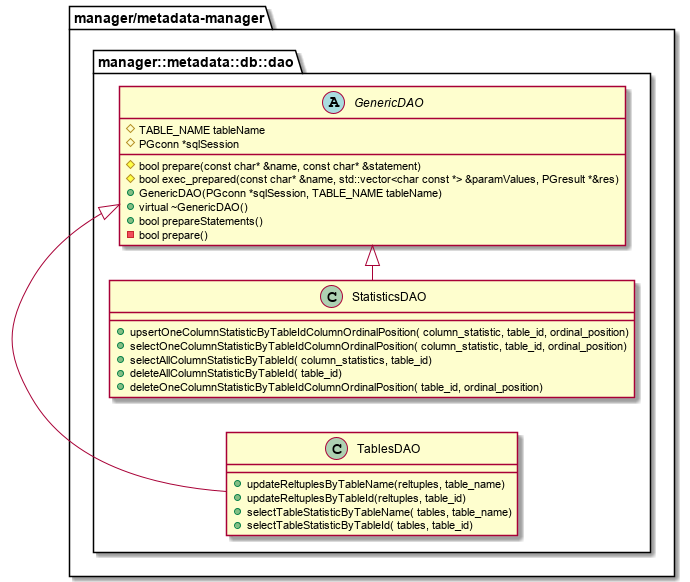
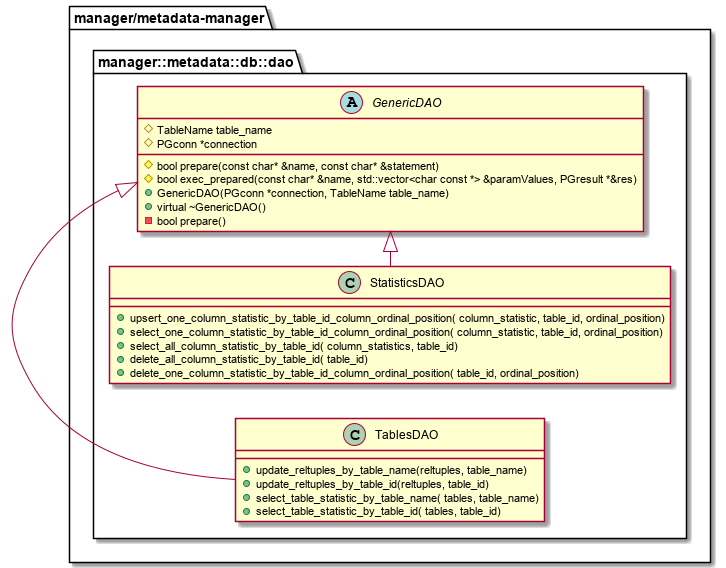
Unify lower snake_case for methods and variables and Unify upper snake_case for enums

diff --git a/metadata-manager/docs/statistic/02.FD/統計情報管理機能_API_usage.md b/metadata-manager/docs/statistic/02.FD/統計情報管理機能_API_usage.md
@@ -63,15 +63,15 @@
 | メソッド名   | 説明                                                         |
 | ----------- | ------------------------------------------------------------ |
 |init()|親クラスのメソッドをオーバーライドして実装を行う。<br />実装内容は、親クラスのメソッドの説明を参照。|
-| addOneColumnStatistic| 1カラムの列統計登録・更新（input：テーブルID・カラム番号） |
-| addTableStatistic | 1テーブルの表統計登録・更新（input：テーブルID・行数）|
-| addTableStatistic | 1テーブルの表統計登録・更新（input：テーブル名・行数、output：テーブルID）|
-| getOneColumnStatistic | 1カラムの列統計参照（input：テーブルID・カラム番号） |
-| getAllColumnStatistics | 1テーブルの全列統計参照（input：テーブルID） |
-| getTableStatistic       | 1テーブルの表統計参照（input：テーブルID）|
-| getTableStatistic       | 1テーブルの表統計参照（input：テーブル名、output：テーブルID・行数）|
-| removeOneColumnStatistic | 1カラムの列統計削除（input：テーブルID・カラム番号）|
-| removeAllColumnStatistics | 1テーブルの全列統計削除（input：テーブルID）|
+| add_one_column_statistic| 1カラムの列統計登録・更新（input：テーブルID・カラム番号） |
+| add_table_statistic | 1テーブルの表統計登録・更新（input：テーブルID・行数）|
+| add_table_statistic | 1テーブルの表統計登録・更新（input：テーブル名・行数、output：テーブルID）|
+| get_one_column_statistic | 1カラムの列統計参照（input：テーブルID・カラム番号） |
+| get_all_column_statistics | 1テーブルの全列統計参照（input：テーブルID） |
+| get_table_statistic       | 1テーブルの表統計参照（input：テーブルID）|
+| get_table_statistic       | 1テーブルの表統計参照（input：テーブル名、output：テーブルID・行数）|
+| remove_one_column_statistic | 1カラムの列統計削除（input：テーブルID・カラム番号）|
+| remove_all_column_statistics | 1テーブルの全列統計削除（input：テーブルID）|
 
 ### ColumnStatistic
 
@@ -120,7 +120,7 @@
   // 3. metadata-managerは、メタデータ格納先にプリペアードステートメントを送り、SQL文の前処理を実行する。
   // 上記3つの処理を実施し、すべての処理が成功した場合、metadata-managerは、メタデータ格納先とメタデータの受け渡しが可能となる。
   // それ以外の場合、metadata-managerは、メタデータ格納先とメタデータの受け渡しができない。
-  if (ErrorCode::OK != stats->initialize())
+  if (ErrorCode::OK != stats->init())
   {
     // error handling
   }
@@ -140,7 +140,7 @@
     one_column_statistic.put("stanullfrac", 0.9981203);
 
     //metadata-managerは、メタデータ格納先に対して、テーブルID・カラム番号に紐づく1カラム単位の列統計を登録・更新する。
-    if (ErrorCode::OK != stats->addOneColumnStatistic(table_id, column_ordinal_position,  one_column_statistic))
+    if (ErrorCode::OK != stats->add_one_column_statistic(table_id, column_ordinal_position,  one_column_statistic))
     {
     	// error handling
     }
@@ -156,7 +156,7 @@
     auto stats = std::make_unique<Statistics>(TEST_DB);
     
     //metadata-managerは、メタデータ格納先に対して、テーブルIDに紐づく表統計を登録・更新する。
-    if (ErrorCode::OK != stats->addTableStatistic(table_id, reltuples))
+    if (ErrorCode::OK != stats->add_table_statistic(table_id, reltuples))
     {
     	// error handling
     }
@@ -170,7 +170,7 @@
     auto stats = std::make_unique<Statistics>(TEST_DB);
     
     //metadata-managerは、メタデータ格納先に対して、テーブル名に紐づく表統計を登録・更新する。
-    if (ErrorCode::OK != stats->addTableStatistic(table_name, reltuples, table_id))
+    if (ErrorCode::OK != stats->add_table_statistic(table_name, reltuples, table_id))
     {
     	// error handling
     }
@@ -189,10 +189,10 @@
     auto stats = std::make_unique<Statistics>(TEST_DB);
 
     //metadata-managerは、メタデータ格納先から、テーブルID・カラム番号に紐づく列統計を取得する。
-    if (ErrorCode::OK == stats->getOneColumnStatistic(table_id, column_ordinal_position, column_statistic))
+    if (ErrorCode::OK == stats->get_one_column_statistic(table_id, column_ordinal_position, column_statistic))
     {
       // あるカラムのNULL率を取得
-      cout << column_statistic.columnStatistic.get("stanullfrac") << endl;
+      cout << column_statistic.column_statistic.get("stanullfrac") << endl;
     }
     else{
       // error handling
@@ -209,7 +209,7 @@
     auto stats = std::make_unique<Statistics>(TEST_DB);
     
     //metadata-managerは、メタデータ格納先から、テーブルIDに関するすべての列統計・表統計を一括で取得する。
-    if (ErrorCode::OK == stats->getAllColumnStatistics(table_id, column_statistics))
+    if (ErrorCode::OK == stats->get_all_column_statistics(table_id, column_statistics))
     {
       // あるカラムのNULL率を取得
       ColumnStatistic one_column_statistic;
@@ -221,7 +221,7 @@
         std::cout << "not found";
       else
         one_column_statistic = got->second;
-        cout << one_column_statistic.columnStatistic.get<int64_t>("stanullfrac") << endl;
+        cout << one_column_statistic.column_statistic.get<int64_t>("stanullfrac") << endl;
     }
     else{
       // error handling
@@ -238,7 +238,7 @@
     auto stats = std::make_unique<Statistics>(TEST_DB);
   
     //metadata-managerは、メタデータ格納先から、テーブルIDに関する表統計・テーブルメタデータを取得する。
-    if (ErrorCode::OK == stats->getTableStatistic(table_id, table_statistic))
+    if (ErrorCode::OK == stats->get_table_statistic(table_id, table_statistic))
     {
       // 行数を取得
       cout << table_statistic.reltuples << endl;
@@ -256,7 +256,7 @@
     auto stats = std::make_unique<Statistics>(TEST_DB);
   
     //metadata-managerは、メタデータ格納先から、テーブル名に関する表統計・テーブルメタデータを取得する。
-    if (ErrorCode::OK == stats->getTableStatistic(table_name, table_statistic))
+    if (ErrorCode::OK == stats->get_table_statistic(table_name, table_statistic))
     {
       // 行数を取得
       cout << table_statistic.reltuples << endl;
@@ -277,7 +277,7 @@
     auto stats = std::make_unique<Statistics>(TEST_DB);
     
     //metadata-managerは、メタデータ格納先に対して、テーブルID・カラム番号に紐づく列統計を削除する。
-    if (ErrorCode::OK != stats->removeOneColumnStatistic(table_id, column_ordinal_position))
+    if (ErrorCode::OK != stats->remove_one_column_statistic(table_id, column_ordinal_position))
     {
     	// error handling
     }
@@ -291,7 +291,7 @@
     auto stats = std::make_unique<Statistics>(TEST_DB);
     
     //metadata-managerは、メタデータ格納先に対して、テーブルIDに紐づく全列統計を削除する。
-    if (ErrorCode::OK != stats->removeAllColumnStatistics(table_id))
+    if (ErrorCode::OK != stats->remove_all_column_statistics(table_id))
     {
     	// error handling
     }

diff --git a/metadata-manager/docs/statistic/02.FD/統計情報管理機能_詳細設計書.md b/metadata-manager/docs/statistic/02.FD/統計情報管理機能_詳細設計書.md
@@ -29,8 +29,8 @@
             - [説明](#説明-4)
             - [method](#method-3)
         - [DAOで利用するenum](#daoで利用するenum)
-            - [STATEMENT_NAME](#statement_name)
-            - [TABLE_NAME](#table_name)
+            - [StatementName](#statement_name)
+            - [TableName](#table_name)
     - [シーケンス図](#シーケンス図)
         - [初期化処理](#初期化処理)
         - [終了処理](#終了処理)
@@ -126,7 +126,7 @@
 * initialize
   * fieldを初期化する。
 
-* getConnectionString
+* get_connection_string
   * CONNECTION_STRINGをgetする。
 
 ### DialectStrategy
@@ -175,7 +175,7 @@ DialectStrategy::getInstance()->StatisticsDAO_upsertOneColumnStatisticByTableIdC
 
 ![](./out/uml/ClassDiagram_detail/ClassDiagram_detail_dao_enum.png)
 
-#### STATEMENT_NAME
+#### StatementName
 
 * プリペアードステートメントを一意に識別するためのステートメント文字列を格納する。
   * ステートメント文字列
@@ -192,7 +192,7 @@ DialectStrategy::getInstance()->StatisticsDAO_upsertOneColumnStatisticByTableIdC
       * stmtName
         * unique name for the new prepared statement.
 
-#### TABLE_NAME
+#### TableName
 
 * 各DAOを一意に識別する名前。
 
@@ -202,8 +202,11 @@ DialectStrategy::getInstance()->StatisticsDAO_upsertOneColumnStatisticByTableIdC
 ![](./out/uml/SequenceDiagram_detail/接続処理.png)
 
 ### 終了処理
-* サービス層のクラスのデストラクタで、メタデータ格納先とのコネクションを切断する。
-![](./out/uml/SequenceDiagram_detail/切断処理.png)
+* PGConnをstd::shared_ptr<PGconn>で定義して、std::shared_ptr<PGconn>のdeleterで、PQfinishを呼ぶ。
+
+```C++
+std::shared_ptr<PGconn> conn(pgconn, [](PGconn *c) { ::PQfinish(c); });
+```
 
 ### UPSERT_UPDATE_DELETE_API_共通シーケンス_開始・終了処理
 

diff --git a/metadata-manager/docs/statistic/02.FD/統計情報管理機能_機能設計書.md b/metadata-manager/docs/statistic/02.FD/統計情報管理機能_機能設計書.md
@@ -751,8 +751,8 @@
 | プロパティ名<br />（論理名） | プロパティ名<br />（物理名） | 型               | 型の備考 | IN/OUT | 省略指定 | 値の範囲 |
 | ---------------------------- | ---------------------------- | ---------------- | -------- | ------ | -------- | -------- |
 | テーブル名                   | table_name                   | std::string_view |          | IN     | 省略不可 | 1桁以上  |
-| 行数                         | reltuples                    | uint64_t         |          | IN     | 省略不可 | 型の範囲 |
-| テーブルID | table_id                    | int64_t&       | **参照渡し** | OUT     | 省略不可  | 型の範囲 |
+| 行数                         | reltuples                    | float         |          | IN     | 省略不可 | 型の範囲 |
+| テーブルID | table_id                    | int64_t*       | **ポインタ** | OUT     | 省略可  | 型の範囲 |
 
 #### 戻り値
 
